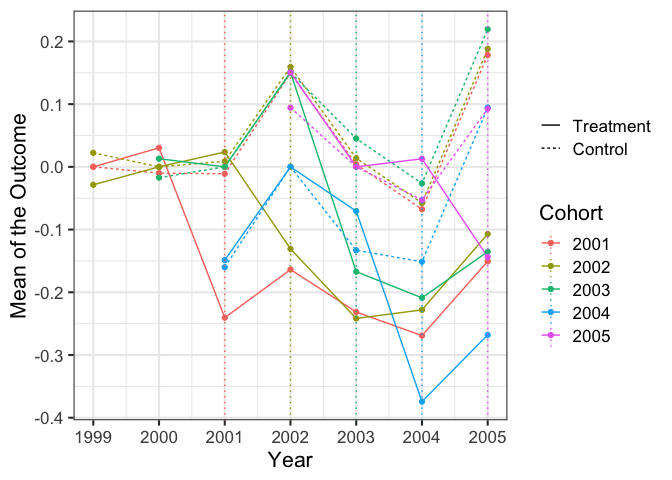
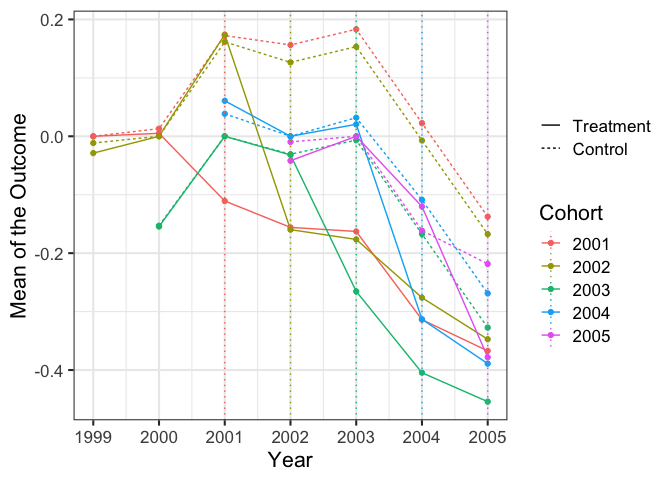
Add example 1 to README

diff --git a/README.md b/README.md
@@ -1,4 +1,4 @@
-eventStudy: an R package for Event Studies
+eventStudy: Perform an Event Study in R
 ================
 
 Created by David Novgorodsky and Bradley Setzler, University of Chicago
@@ -49,6 +49,8 @@ These commands allow you to customize the event study to deal with issues like a
 Plotting the results
 --------------------
 
+You can make your own plots with the results. As a convenience, we have prepared these functions to automatically make your plots:
+
 -   `ES_plot_levels` will plot the levels across event times for the treated and control cohorts.
 -   `ES_plot_ATTs` will plot the treatment effects across event times. By default, it will plot heterogeneous effects for each cohort; set `homogeneous_only = TRUE` to only plot the pooled effect under the homogeneity assumption.
 
@@ -63,8 +65,8 @@ devtools::install_github("setzler/eventStudy")
 ```
 
 ``` r
-library(ggplot2)
 library(eventStudy)
+library(ggplot2)
 ```
 
 Example 1: Perfect Control Groups
@@ -75,22 +77,22 @@ First, we simulate some data using our function called `ES_simulate_data`:
 ``` r
 # simulate the data with 1000 individuals (use only the first element)
 sim_data <- ES_simulate_data(units = 1000)[["observed"]]
-# print what it looks lik
+# view the simulated data
 sim_data[]
 ```
 
-    ##       individual year treatment_year   outcome
-    ##    1:          1 1999           2005 0.5085578
-    ##    2:          1 2000           2005 0.4346124
-    ##    3:          1 2001           2005 0.2851991
-    ##    4:          1 2002           2005 0.7149552
-    ##    5:          1 2003           2005 0.8737153
-    ##   ---                                         
-    ## 6996:       1000 2001           2003 0.6139857
-    ## 6997:       1000 2002           2003 1.2743535
-    ## 6998:       1000 2003           2003 0.3305345
-    ## 6999:       1000 2004           2003 0.4619364
-    ## 7000:       1000 2005           2003 0.6304014
+    ##       individual year treatment_year    outcome
+    ##    1:          1 1999           2002 0.30258885
+    ##    2:          1 2000           2002 0.67674199
+    ##    3:          1 2001           2002 1.08722711
+    ##    4:          1 2002           2002 0.60191240
+    ##    5:          1 2003           2002 0.02669948
+    ##   ---                                          
+    ## 6996:       1000 2001           2003 1.23179525
+    ## 6997:       1000 2002           2003 0.66567866
+    ## 6998:       1000 2003           2003 0.55033053
+    ## 6999:       1000 2004           2003 0.44312152
+    ## 7000:       1000 2005           2003 0.15379552
 
 In this data, the treatment is received in the year given by the `treatment_year` variable. The other variables are `individual`, `year`, and `outcome`. We wish to perform an event study to understand the effect of this treatment on this outcome.
 
@@ -117,9 +119,9 @@ results <- ES(long_data=sim_data, outcomevar="outcome", unit_var="individual", c
     ## Warning in as.POSIXlt.POSIXct(x, tz): unknown timezone 'zone/tz/2018i.1.0/
     ## zoneinfo/America/Chicago'
 
-    ## INFO [2019-01-23 23:15:04] Successfully produced a stacked dataset.
-    ## INFO [2019-01-23 23:15:04] Estimated heterogeneous case with OLS.
-    ## INFO [2019-01-23 23:15:05] Estimated homogeneous case with OLS.
+    ## INFO [2019-01-23 23:29:45] Successfully produced a stacked dataset.
+    ## INFO [2019-01-23 23:29:46] Estimated heterogeneous case with OLS.
+    ## INFO [2019-01-23 23:29:47] Estimated homogeneous case with OLS.
 
 Now, we plot the results. First, we plot the treatment and control means. The ES function has constructed the appropriate control group for each treatment group. We can see that it looks much cleaner than in the raw data:
 
@@ -132,7 +134,7 @@ ES_plot_levels(results, lower_event = -3, upper_event = 5) + ylab("Mean of the O
 Finally, we plot the treatment effects, comparing the cohort-specific effects to the pooled effect that comes from imposing homogeneity across cohorts:
 
 ``` r
-ES_plot_ATTs(results, lower_event = -3, upper_event = 5) + ylab("Mean of the Outcome")
+ES_plot_ATTs(results, lower_event = -3, upper_event = 5) + ylab("ATT Estimate (95% CI)")
 ```
 
 ![](README_files/figure-markdown_github-ascii_identifiers/unnamed-chunk-7-1.png)
